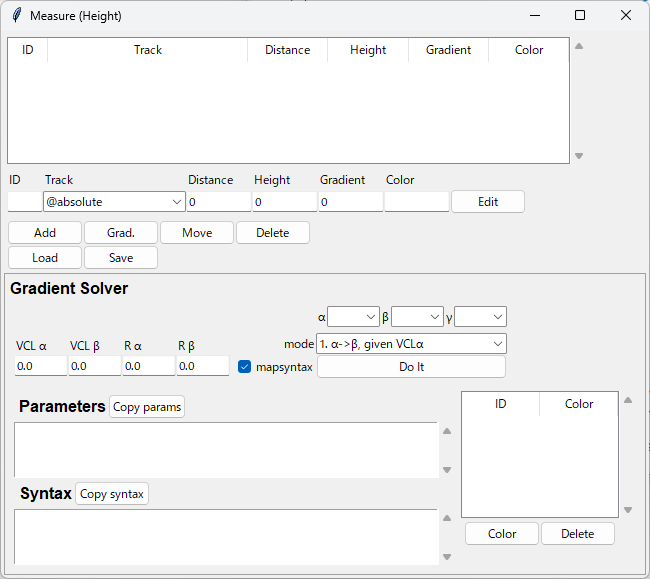
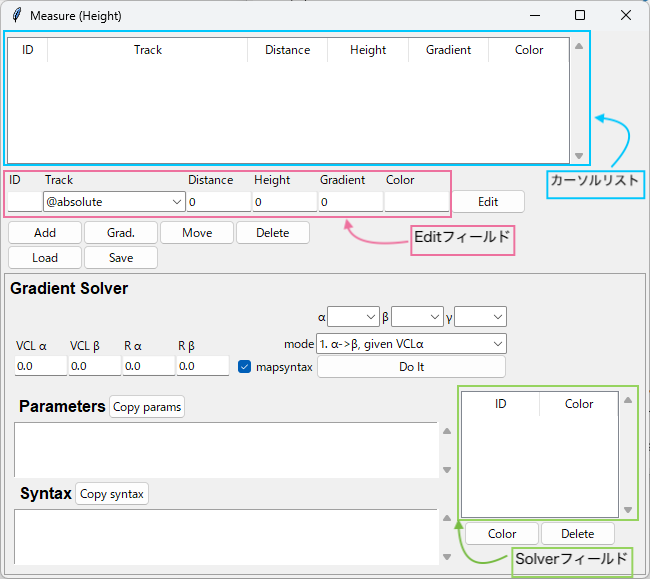
height measure, heightsolverの説明追加。

diff --git a/docs_src/reference_heightmeasure.rst b/docs_src/reference_heightmeasure.rst
@@ -13,3 +13,110 @@ Measureウィンドウ(高度)
 プロットウィンドウ上の座標(距離, 高度)と勾配を調べる機能です。
 任意の数のカーソルを設定できます。
 
+Addボタン
+-----------
+
+.. image:: ./files/cursor_arrow.png
+
+Addボタンを押すと、プロットウィンドウ上に新しいx印カーソルを作成し、左クリックするまでの間マウスで位置を動かせます。
+新しく作成したカーソルにはIDが割り振られ、カーソルリストにデータが表示されます。
+カーソルが指し示す位置の距離程、高度は、カーソルリストのDistance, Heightフィールドに表示されます。
+
+Trackボックスで `@absolute` が指定されている場合、カーソルはプロットウィンドウの任意の位置に動かせます。
+
+Trackボックスで `任意の軌道キー` を選択している場合、カーソルは選択した軌道上のみを動かせます。
+このとき、カーソルが示す地点の軌道勾配がGradientフィールドに表示されます。
+
+
+Grad.ボタン
+-----------
+
+カーソルリストで選択したカーソルについて、方角カーソルをマウスで指し示した方向に動かせます。
+マウスを動かしている間、方角カーソルが示す角度に対応した勾配(単位: [‰])がリストのGradientフィールドに表示されます。
+方角カーソルは左クリックするまで動かせます。
+
+リストで選択したカーソルのTrack: `@absolute` の場合、方角カーソルは距離程正の自由な方向（±90°以内）に向けられます。
+
+リストで選択したカーソルのTrack: `任意の軌道キー` の場合は、方角カーソルは動きません。
+
+Moveボタン
+-----------
+
+カーソルリストで選択したカーソルについて、左クリックするまでの間マウスで示した位置に動かせます。
+
+Editボタン
+-----------
+
+カーソルリストで選択したカーソルについて、パラメータをEditフィールドで指定した値に変更します。
+
+Track: `@absolute` の場合、Distance, Height, Gradient, Color全ての値を変更できます。
+
+Track: `任意の軌道キー` の場合は、Distance, Colorのみが変更可能です。
+
+Deleteボタン
+-----------
+
+カーソルリストで選択したカーソルを削除します。
+
+Loadボタン
+-----------
+
+下記Saveボタンで書き出したxmlファイルを読み込み、カーソル情報をカーソルリストとプロット画面に復元します。
+Gradient Solverの実行結果も同時に復元されます。
+
+Loadを実行すると、カーソルリスト・Solverリストの内容は消去され、xmlファイルから読み込んだ内容に書き換えられます。
+
+Saveボタン
+-----------
+
+作成したカーソルの情報をxmlファイルに書き出します。
+同時に、Gradient Solverの実行結果も同じファイルに書き出します。
+
+Gradient Solver
+================
+
+α,β,γボックスで選択したカーソルを通る最適な勾配軌道を探索します。
+
+α,β,γに割り当てたいカーソルのIDをα,β,γボックスで選択し、計算Modeを選択してDo Itボタンを押すと、計算結果がプロットウィンドウとParameters, Syntaxフィールドに表示されます。
+
+Parametersフィールドには計算条件を、SyntaxフィールドにはGradient構文で示した計算結果を表示します。
+表示内容はそれぞれCopy params, Copy syntaxボタンでクリップボードへコピーできます。
+
+計算結果にはID, Colorが割り振られ、Solverリストに表示されます。
+
+Colorボタン
+-----------
+
+リストで選択した計算結果について、プロットウィンドウへの表示するラインカラーを変更します。
+
+Deleteボタン
+-----------
+
+リストで選択した計算結果を削除します。
+
+Mode
+-----
+
+計算Modeは次の通りです。
+
+.. image:: ./files/heightsolver_mode1-2.png
+	   :scale: 50%
+
+* 1. α->β, given VCLα
+
+  * カーソルαの延長線上に起点、カーソルβの延長線上に終点を持つ、縦曲線長VCLαの勾配軌道を求める
+    
+* 2. α->β, given Rα
+
+  * カーソルαの延長線上に起点、カーソルβの延長線上に終点を持つ、縦曲線半径Rαの勾配軌道を求める
+
+.. image:: ./files/heightsolver_mode3-4.png
+	   :scale: 50%
+		   
+* 3. α->β->γ, given VCLα,β
+
+  * カーソルαの延長線上に起点、カーソルβの延長線上に終点を持つ縦曲線長VCLαの勾配軌道、カーソルβの延長線上に起点、カーソルγの延長線上に終点を持つ縦曲線長VCLβの勾配軌道を同時に求める。
+  
+* 4. α->β->γ, given Rα,β
+
+  * カーソルαの延長線上に起点、カーソルβの延長線上に終点を持つ縦曲線半径Rαの勾配軌道、カーソルβの延長線上に起点、カーソルγの延長線上に終点を持つ縦曲線半径Rβの勾配軌道を同時に求める
